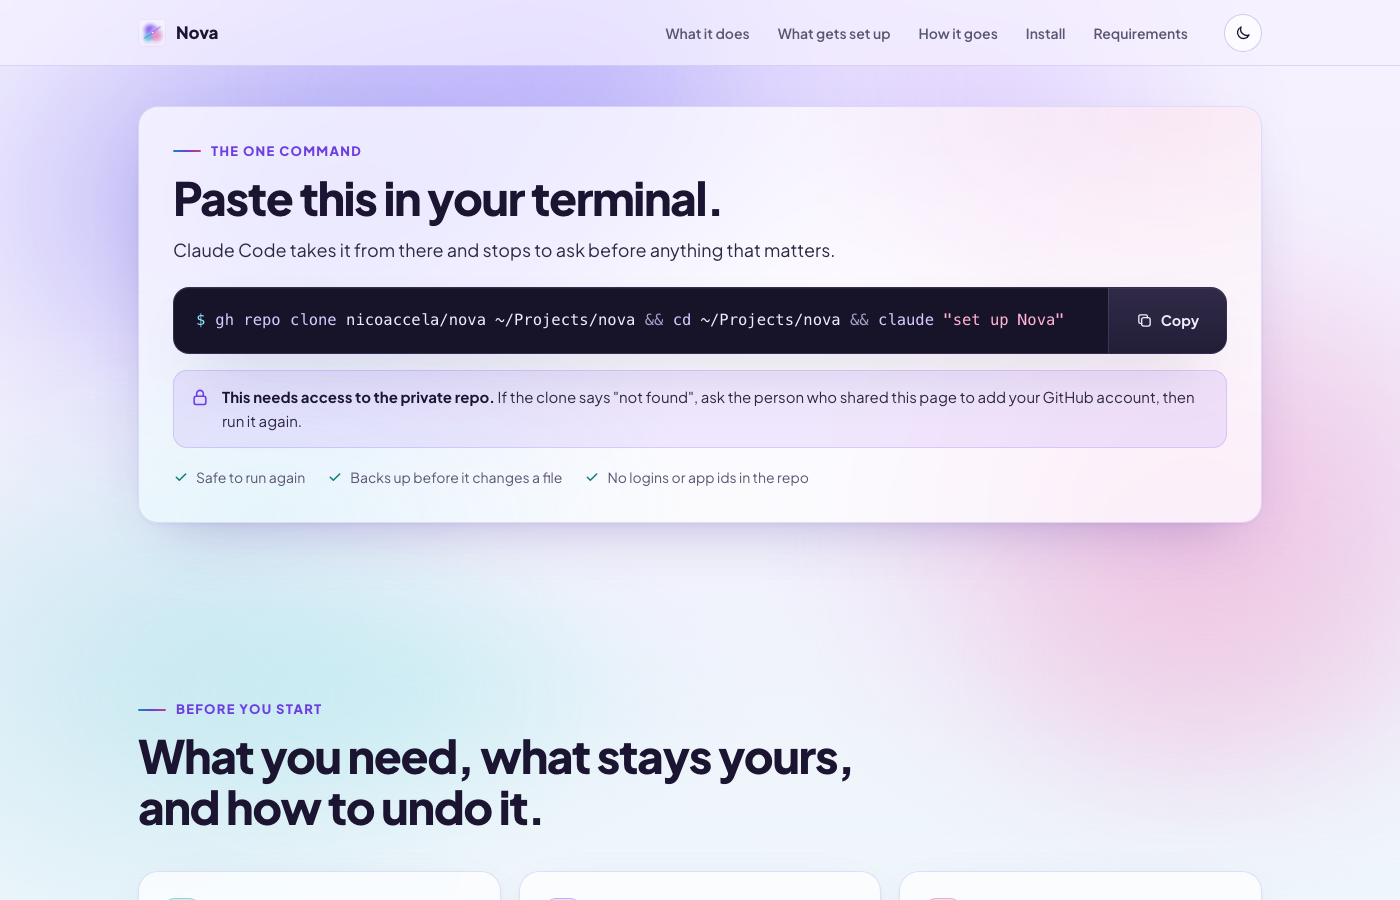
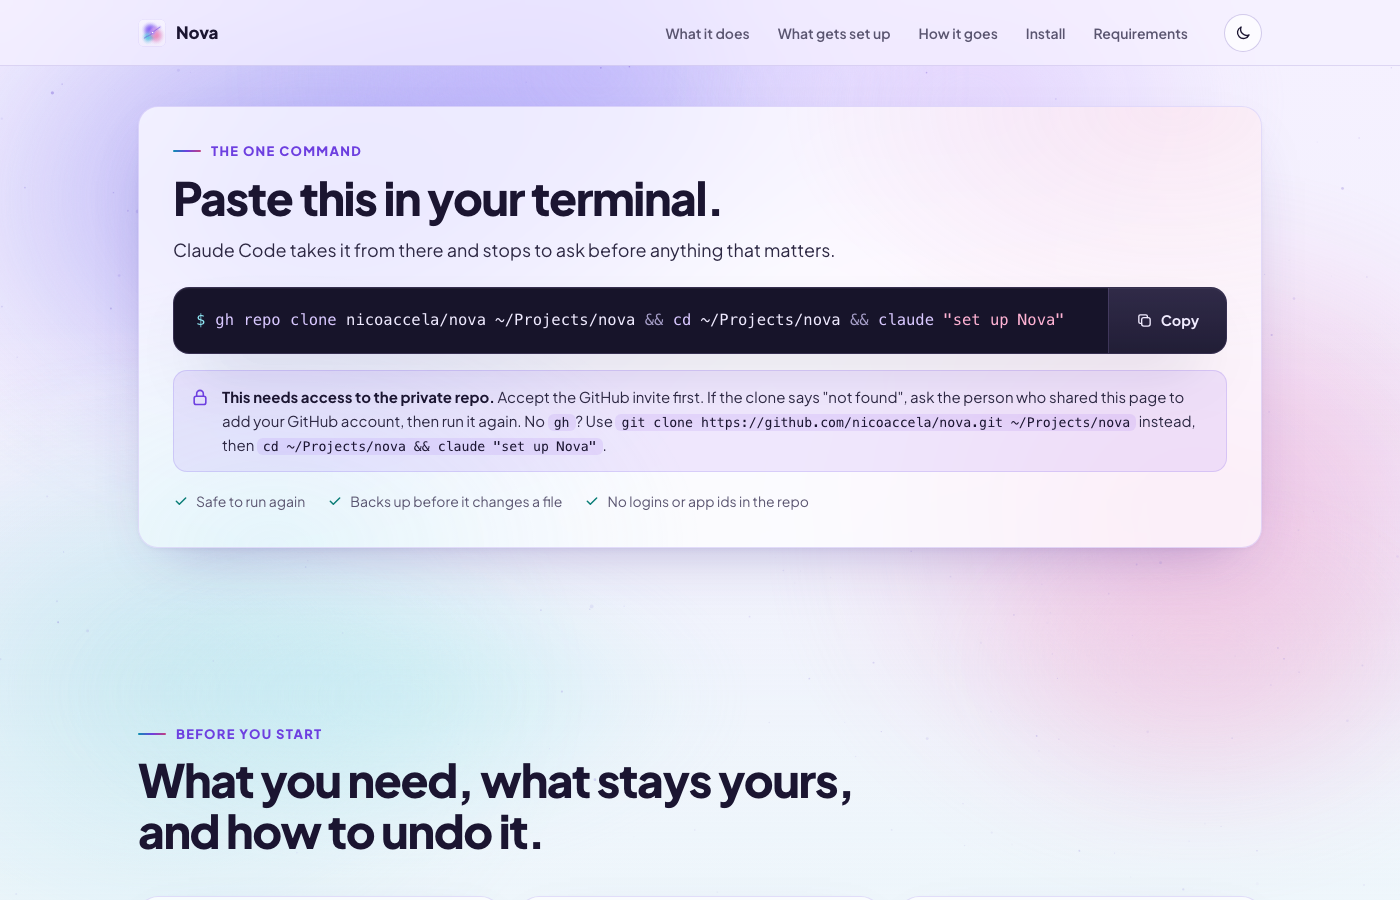
Fix the uninstall command, add a git clone fallback, honest undo copy

diff --git a/index.html b/index.html
@@ -243,6 +243,7 @@ h3 { font-size:19px; line-height:1.3; letter-spacing:-.01em; color:var(--ink); m
 .note { display:flex; gap:12px; align-items:flex-start; font-size:15px; padding:14px 16px; border-radius:14px; background:var(--accent-soft); border:1px solid var(--glass-line); margin:0; }
 .note svg { flex:none; width:20px; height:20px; color:var(--violet); margin-top:2px; }
 .note b { color:var(--ink); }
+.note code { font-family:ui-monospace, "SF Mono", Menlo, monospace; font-size:.88em; background:var(--accent-soft); padding:1px 6px; border-radius:6px; color:var(--ink); overflow-wrap:anywhere; }
 .cmd-meta { display:flex; flex-wrap:wrap; gap:10px 22px; margin:18px 0 0; font-size:14px; color:var(--muted); }
 .cmd-meta span { display:flex; align-items:center; gap:7px; } .cmd-meta svg { width:16px; height:16px; color:var(--ok); }
 
@@ -348,7 +349,7 @@ footer p { margin:0; } footer .r { margin-left:auto; }
       </div>
       <ul class="facts" aria-label="At a glance">
         <li>macOS on Apple Silicon</li>
-        <li>About 40 minutes, start to hello</li>
+        <li>About 40 minutes, up to an hour on slow Wi-Fi</li>
         <li>Memory and voice stay on your Mac</li>
       </ul>
     </div>
@@ -570,7 +571,7 @@ footer p { margin:0; } footer .r { margin-left:auto; }
       </div>
       <p class="note">
         <svg viewBox="0 0 24 24" fill="none" stroke="currentColor" stroke-width="1.9" stroke-linecap="round" stroke-linejoin="round" aria-hidden="true"><rect x="5" y="11" width="14" height="10" rx="2.5"/><path d="M8 11V8a4 4 0 0 1 8 0v3"/></svg>
-        <span><b>This needs access to the private repo.</b> If the clone says "not found", ask the person who shared this page to add your GitHub account, then run it again.</span>
+        <span><b>This needs access to the private repo.</b> Accept the GitHub invite first. If the clone says "not found", ask the person who shared this page to add your GitHub account, then run it again. No <code>gh</code>? Use <code>git clone https://github.com/nicoaccela/nova.git ~/Projects/nova</code> instead, then <code>cd ~/Projects/nova &amp;&amp; claude "set up Nova"</code>.</span>
       </p>
       <div class="cmd-meta" aria-label="What the command does">
         <span><svg viewBox="0 0 24 24" fill="none" stroke="currentColor" stroke-width="2.2" stroke-linecap="round" stroke-linejoin="round" aria-hidden="true"><path d="m5 12.5 4.5 4.5L19 7.5"/></svg>Safe to run again</span>
@@ -592,7 +593,7 @@ footer p { margin:0; } footer .r { margin-left:auto; }
           <li><b>A Mac with Apple Silicon</b> (M1 or newer)</li>
           <li><b>Homebrew</b> <span class="dim">Setup adds tmux, jq, uv, Bun and ffmpeg if they are missing.</span></li>
           <li><b>Claude Code</b>, signed in with your own account</li>
-          <li><b>GitHub CLI</b> (<code>gh</code>), signed in, with access to the repo</li>
+          <li><b>GitHub access</b> to the private repo (invite accepted), with <code>gh</code> signed in or plain <code>git</code></li>
           <li><b>About 3 GB free</b> for the voice models</li>
           <li><b>Telegram on your phone</b> <span class="dim">Only if you want to text Nova.</span></li>
           <li><b>Mac awake and online</b> <span class="dim">Nova lives on your Mac. To reach it from your phone, keep the lid open and on power.</span></li>
@@ -609,8 +610,8 @@ footer p { margin:0; } footer .r { margin-left:auto; }
       </div>
       <div class="panel glass t-p undo rv">
         <h3><span class="ico"><svg viewBox="0 0 24 24" fill="none" stroke="currentColor" stroke-width="1.8" stroke-linecap="round" stroke-linejoin="round" aria-hidden="true"><path d="M9 14 4 9l5-5"/><path d="M4 9h10.5a5.5 5.5 0 0 1 0 11H11"/></svg></span>What you can undo</h3>
-        <p><b>All of it.</b> Every file setup changes is backed up first, and its additions sit in clearly marked blocks.</p>
-        <p>To remove Nova, open Claude Code in the repo and say <code>uninstall Nova</code>, or run <code>./setup.sh --uninstall</code>. It restores your backups and lists anything left behind, like Homebrew packages or the voice models, so you can decide.</p>
+        <p><b>Almost all of it.</b> Every file setup replaces is backed up first, and its additions sit in clearly marked blocks.</p>
+        <p>To remove Nova, open Claude Code in the repo and say <code>uninstall Nova</code>, or run <code>./setup.sh --uninstall nova</code>. It restores your backups and lists what it leaves in place on purpose, so you can decide: your brain and hub notes, the Telegram token folder, the connectors, the voice services and models, the Telegram plugin and any Homebrew packages.</p>
         <p>Or switch off just one part: <code>nova-voice off</code>, <code>nova-telegram off</code>, or sign out of a tool.</p>
       </div>
     </div>
